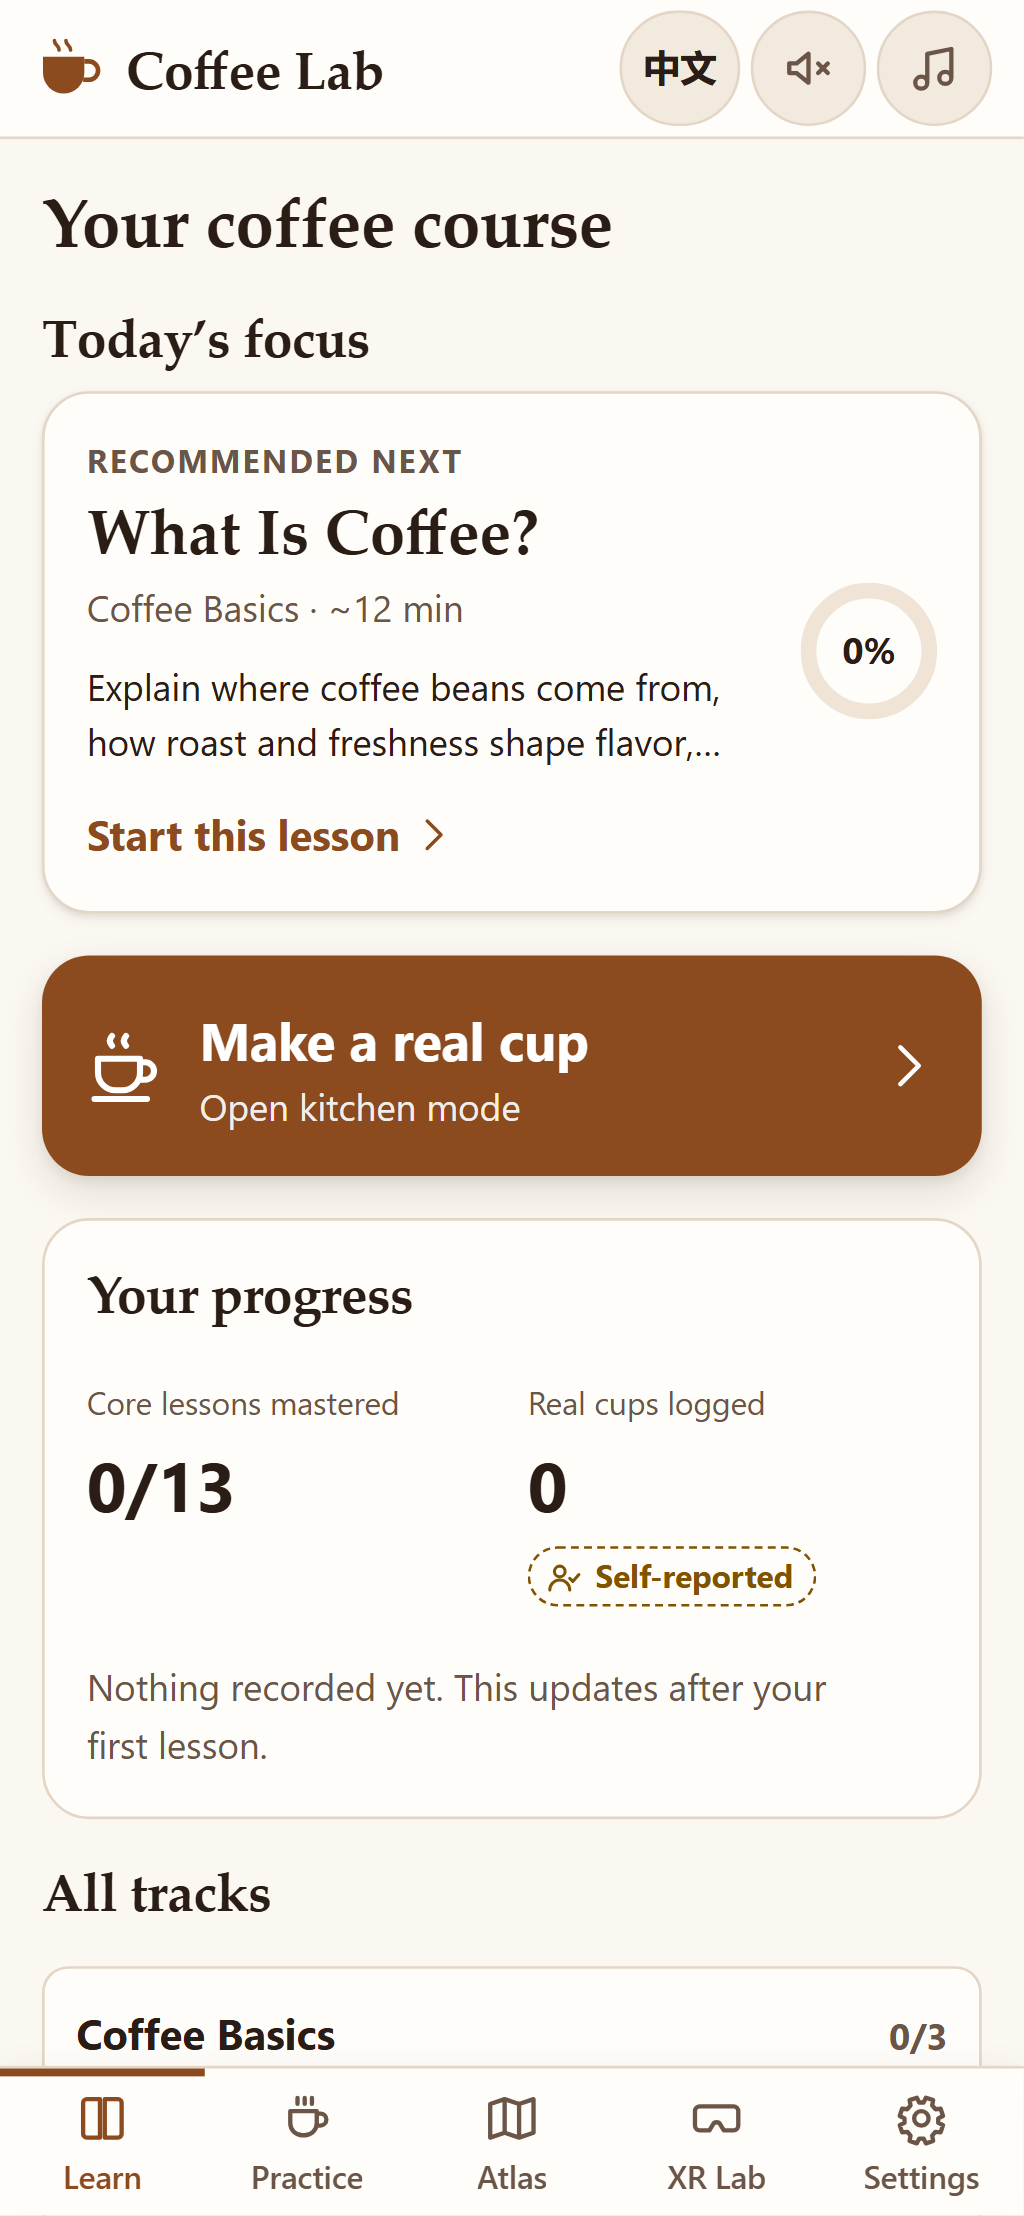
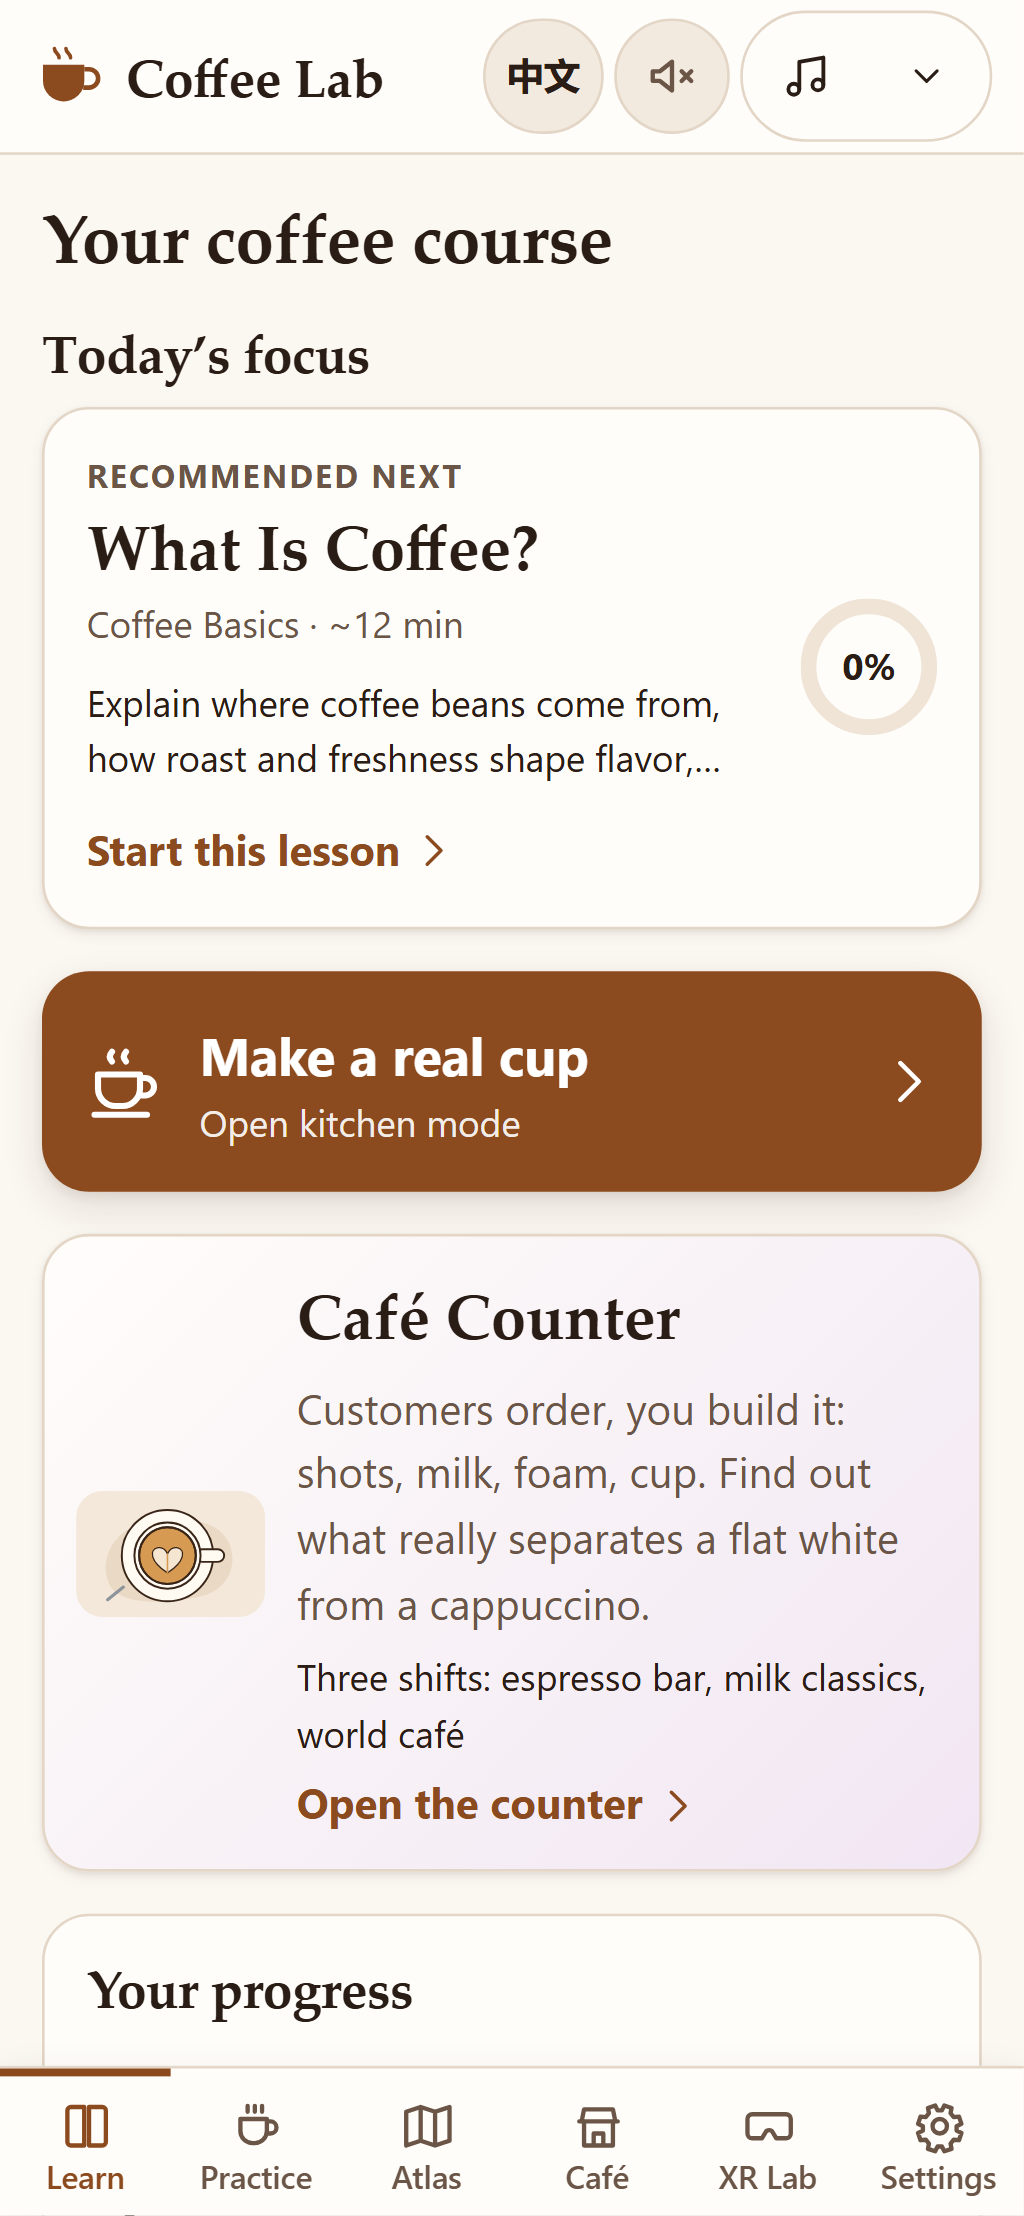
docs: final delivery report, execution state, backlog and QA log at session end
Claude-Session: https://claude.ai/code/session_013xbibxe9bcCacVxcdiFdAn

diff --git a/reports/DELIVERY.md b/reports/DELIVERY.md
@@ -1,6 +1,6 @@
 # Delivery Report — Coffee Lab · 咖啡实验室
 
-**Status:** working product, P0 scope met in browser (see evidence); XR **hardware-unverified**. This report is updated at each milestone — *last full verification: see "Tests" below.*
+**Status (final, 2026-11-08):** working product on `main` @ `773a388`; P0 scope met in browser with automated evidence; XR **hardware-unverified**. Unfinished work is preserved on branch `wip/phase5-unfinished` (not merged, not verified).
 **Canonical brief:** `COFFEE_LAB_HANDOFF.md` · decisions: `docs/DECISIONS.md` · state: `docs/EXECUTION_STATE.md` · QA: `reports/QA_LOG.md`.
 
 ## What a new user can do
@@ -10,10 +10,12 @@
 4. **Log real cups:** dose / yield / time / grind / taste tags / own rating → correct ratio, a modest one-change suggestion with a caveat, "log another attempt", side-by-side attempt comparison in the **journal**.
 5. **Explore all coffee types:** **Drink Atlas** of 29 drinks (espresso, milk drinks, pour-over, immersion, moka, cold, regional: Turkish, Vietnamese phin, yuenyeung, café de olla, qahwa, …) with origin/culture notes (legends flagged as legends), illustrative recipes, gear you own vs. need, related lessons, and "Make it now" in kitchen mode.
 6. **Play Café Counter:** customers order; build 19 drinks from 7 stations; feedback explains *what differs and why* (and spots when you built a different textbook drink); 3 levels (espresso bar, milk classics, world café); tiers; drinks-mastered collection.
-7. **XR Lab (optional):** the *espresso-first-shot* mission (13 steps: grab portafilter, dose, tamp, lock in, cup, tare, brew, stop near target yield, serve, knock out, flush) playable in **WebXR** where supported, as a **3D scene with mouse/touch**, or via a **keyboard/screen-reader action list**. Records evidence `simulated` and states what it does not train (grip force, haptics, heat, taste). More missions: see "Known limitations".
-8. **Sound & music:** original procedural SFX and generative café music (off by default; mood + volume in Settings).
-9. **Offline / install:** production build is a PWA; after the first load lessons, kitchen mode, journal, atlas and settings work offline.
-10. **Your data stays on the device:** export / import / reset in Settings; no account, no network calls at runtime.
+7. **Brew companions (phone, real gear):** espresso shot stopwatch (carries the measured seconds into the log as "Timed in app" — the only app-measured value; the rest is self-reported), pour-over pour-schedule companion ("a schedule, not a measurement"), and a dial-in chart (time vs ratio, illustrative zone, table alternative) in the journal.
+8. **Coffee Culture Explorer (`/culture`):** original hand-drawn world map with 34 places (origins, producers, coffeehouse cities, drink cultures) and a 37-event history timeline; legends and disputed dates badged; colonial/enslaved-labour history stated factually; optional matching music mood.
+9. **XR Lab (optional):** the *espresso-first-shot* mission (13 steps: grab portafilter, dose, tamp, lock in, cup, tare, brew, stop near target yield, serve, knock out, flush) playable in **WebXR** where supported, as a **3D scene with mouse/touch**, or via a **keyboard/screen-reader action list**. Records evidence `simulated` and states what it does not train (grip force, haptics, heat, taste). More missions: see "Known limitations".
+10. **Sound & music:** original procedural SFX and a generative café-music composer (off by default) with 6 moods incl. culture-inspired bossa / kissa / espresso-bar; header music control; WAV previews in `reports/audio/` (`reports/AUDIO_QA.md`).
+11. **Offline / install:** production build is a PWA; after the first load lessons, kitchen mode, journal, atlas and settings work offline.
+12. **Your data stays on the device:** export / import / reset in Settings; no account, no network calls at runtime.
 
 ## How to launch
 ```sh
@@ -30,11 +32,11 @@ Requires Node ≥ 22.22 (built on Node 24.19 / npm 11.17 / Windows 11).
 ## Tests and supported devices
 | Kind | Result | Notes |
 |---|---|---|
-| Typecheck (`npm run typecheck`) | PASS | app + configs + e2e |
-| Unit (`npm test`) | PASS — see EXECUTION_STATE for latest count | domain math, migration/corruption, selectors, activities, practice, journal advice, café specs, XR state machine (incl. 200-seed fuzz), audio no-throw, UI a11y behaviors, content integrity |
+| Typecheck (`npm run typecheck`) | PASS @ 773a388 | app + configs + e2e |
+| Unit (`npm test`) | PASS 480/480 (50 files) @ 773a388 | domain math, migration/corruption, selectors, activities, practice, journal advice, café specs, XR state machine (incl. 200-seed fuzz), audio no-throw, UI a11y behaviors, content integrity |
 | Production build | PASS | Babylon only in lazy `/xr` chunks (e2e-asserted) |
-| E2E product suites | PASS on desktop + mobile Chromium | smoke, learn, practice, cafe, offline (PWA) |
-| Independent QA gate #1 (`tests/e2e/qa-*`) | 178 pass / 12 skip (2 identical runs) | phone-only + desktop-only scenarios, XR fallback, failure handling, axe WCAG A/AA on 17 screens × themes × viewports, zh pass, content honesty |
+| E2E — all suites (`npx playwright test`) | **246 passed / 14 skipped / 0 failed** @ 773a388 (desktop 1280×800 + Pixel 7; skips are viewport-scoped tests) | smoke, shell, learn, practice, brew, cafe, culture, offline (PWA) + independent QA suites |
+| Independent QA gate #1 (`tests/e2e/qa-*`) | 178 pass / 12 skip (2 identical runs); bugs QA-01…09 fixed except QA-05 | | phone-only + desktop-only scenarios, XR fallback, failure handling, axe WCAG A/AA on 17 screens × themes × viewports, zh pass, content honesty |
 | **Real phone** | **NOT TESTED by agents** | user can test via `npm run dev:lan` |
 | **XR headset** | **NOT TESTED — no headset available** | WebXR controller code, comfort, frame rate are hardware-unverified; 3D fallback verified in headless Chromium (software WebGL) |
 | **Audio by ear** | **NOT HEARD by a human** | only no-throw/scheduling tests and (if present) `reports/AUDIO_QA.md` render metrics |
@@ -45,7 +47,11 @@ Requires Node ≥ 22.22 (built on Node 24.19 / npm 11.17 / Windows 11).
 - No human coffee-expert or native-speaker review of zh/en content; some figures are rules of thumb (labeled) and some history is disputed/legendary (labeled) — see `docs/CONTENT_SOURCES*.md`.
 - Taste, extraction and pour models are **illustrative**, never predictions; real-world steps are self-reported, never sensed.
 - Secure-context features (PWA, wake lock, WebXR) don't work over plain-HTTP LAN; see README for options (none set up).
-- Open QA items: see `reports/QA_LOG.md` (P2s being fixed at time of writing).
+- **Open QA item:** QA-05 (P2) — some XR intro links are ~25 px tall on phones (fix was in the unfinished XR branch).
+- **Unfinished, on branch `wip/phase5-unfinished` (NOT merged, NOT verified):** XR mission picker + *station-tour* + *pourover-bloom* missions (mid-refactor of the XR scene), glossary page + inline term help (UI started; glossary data file not written), `docs/CONTENT_CONSISTENCY.md` report. The consistency *fixes* themselves were verified and merged (`773a388`).
+- Independent QA gate #2 on the final build was not run; the lead's final full e2e run is the last evidence.
+- Music loudness: focus/lab/kissa moods are 2–4 LU quieter than others; mixes may sound dull on phone speakers (needs a human listen).
+- A real phone, Safari/Firefox, and screen readers (NVDA/VoiceOver) were not tested.
 
 ## Assets, licensing, content sources
 - All illustrations, icons, app icons, 3D props and audio are **original** (hand-written SVG / procedural Babylon meshes / Web Audio synthesis). No third-party images, models, fonts or audio files.
@@ -59,9 +65,10 @@ Requires Node ≥ 22.22 (built on Node 24.19 / npm 11.17 / Windows 11).
 
 ## Run limits / interruptions / time worked
 - Single session started 2026-11-07 ~23:25 local, orchestrated by a lead planner with specialist subagents (architect, 2 curriculum, designer, XR, 3 web engineers, QA). No deploys, pushes, purchases or paid APIs.
-- Interruptions: none blocking so far. Concurrent-agent Playwright runs collided on a shared port early on → fixed with `E2E_PORT/E2E_DIST/E2E_OUT` isolation.
+- Ended 2026-11-08 ~04:00 local when the account's **5-hour usage limit** was hit (HTTP 429 on two running workers) and the user asked to conclude. Roughly 4.5 h of active work; not a continuous 8 h.
+- Concurrent-agent Playwright runs collided on a shared port early on → fixed with `E2E_PORT/E2E_DIST/E2E_OUT` isolation.
 
 ## Next three improvements
-1. Test on the user's real phone (kitchen mode with their espresso machine / pour-over kit) and fix what the real kitchen reveals.
-2. Headset verification of the XR controller interactions, comfort and frame rate.
-3. Expert + native-speaker review of the zh/en curriculum; then expand dial-in and milk-texture practice.
+1. Finish and verify `wip/phase5-unfinished`: XR mission picker + station-tour + pourover-bloom (and QA-05), glossary data + inline term help; then run an independent QA gate #2.
+2. Real-world check on the user's phone with their espresso machine / pour-over kit (`npm run preview:lan`, or `adb reverse` for secure-context features) and a headset test of the XR controller code.
+3. Human review: listen to `reports/audio/` WAVs and even out mood loudness; expert + native-speaker review of the zh/en curriculum and culture claims.

diff --git a/docs/EXECUTION_STATE.md b/docs/EXECUTION_STATE.md
@@ -5,8 +5,9 @@
 **User answers (2026-11-07):** bilingual zh/en toggle · desktop + phone available, **no headset** · owns espresso machine+grinder & pour-over kit, wants to learn *all* drink types · **music, SFX, coffee culture important** · deps + local commits approved. See `docs/DECISIONS.md`.
 
 ## Current phase
-**Phase 5 — learning quality (2026-11-08 ~03:10, ~3.75h into window).** New since phase 4: culture map/timeline data `84f1b10`, Culture Explorer `/culture` `b6dafce`, `BrewLogEntry.timeSource` contract, brew companions (shot timer, pour schedule, dial-in chart) `40db012`, GlossaryTerm contract.
-Running: xr-engineer (mission picker + station-tour + pourover-bloom + QA-05 — long-running), curriculum (cross-module consistency audit + glossary data), web engineer F (glossary page + inline term help).
+**SESSION ENDED (2026-11-08 ~04:00)** — account 5-hour usage limit hit (HTTP 429 on workers) and user asked to conclude. `main` @ `773a388` is green and runnable.
+Final lead verification @ 773a388: typecheck ✓ · unit 480/480 ✓ · build ✓ · **e2e 246 passed / 14 viewport-scoped skips / 0 failed** (desktop 1280×800 + Pixel 7).
+**Unfinished work saved on branch `wip/phase5-unfinished` (`856aa98`, NOT verified, NOT merged):** XR mission picker + station-tour + pourover-bloom (XR scene refactor in progress; includes QA-05 fix attempt and edits to offline/qa-scenarios specs), glossary UI (`src/features/glossary`, route + ExplainView/LessonIntro wiring) — glossary DATA (`src/content/glossary.ts`) never written. Content-consistency fixes from that branch were verified and merged to main (`773a388`).
 
 ## Working user-visible flows (evidence = lead re-run at af54ea0)
 - [x] Onboarding (skip/edit) and course navigation; desktop course map vs phone "today" home — e2e learn.spec (desktop+mobile)
@@ -21,10 +22,10 @@ Running: xr-engineer (mission picker + station-tour + pourover-bloom + QA-05 —
 - Typecheck: PASS · Unit: PASS 309/309 (31 files) · Build: PASS · E2E: 30 PASS / 2 intentional skips (desktop 1280×800 + Pixel 7, isolated port 4180)
 - Actual headset: **NOT TESTED — no headset available (U2)** · Real phone: NOT TESTED by agents (user can via `npm run dev:lan`)
 
-## Next 3 tasks
-1. Integrate XR phase 3 (+ add spatial-practice activities `esp-meet-the-machine-xr`, `po-ratio-bloom-xr` to content) and wave 4 (culture explorer, brew companions) → full suite → commit.
-2. QA gate #2 (quality-guardian) on the integrated build incl. new routes /cafe, /culture, XR picker; commit refreshed screenshots.
-3. Finalize README layout section + DELIVERY.md numbers; anti-drift audit.
+## Next 3 tasks (on resume)
+1. `git checkout wip/phase5-unfinished`; resume/finish XR phase 3 (picker + 2 missions + QA-05) and make full suite green; write `src/content/glossary.ts`, finish glossary UI; merge to main only after typecheck/unit/build/full e2e pass.
+2. Independent QA gate #2 (quality-guardian) on the merged build; refresh `reports/screenshots/`.
+3. Human-in-the-loop items: real phone kitchen test, headset test, listen to `reports/audio/`, expert/native review.
 
 ## Blockers / unverified assumptions
 - No headset → XR hardware-unverified by design.

diff --git a/docs/BACKLOG.md b/docs/BACKLOG.md
@@ -13,21 +13,27 @@ Status: DONE / PARTIAL / TODO / BLOCKED.
 - [x] DONE (hardware-unverified) — XR espresso mission 13 steps, fallback 3D + action list `3952165` (46 tests)
 - [x] DONE (pending QA) — Guidance tiers: sequence/quiz/identify/ratio lab, kitchen mode, XR
 - [x] DONE (pending QA) — Shared local persistence, provenance (CONTRACTS §9), recovery, export/import/reset `af54ea0`
-- [ ] PARTIAL — Unit 309 ✓, e2e 30 ✓, build ✓ — independent QA gate running
-- [ ] PARTIAL — Sources/safety, README, honest delivery report — CONTENT_SOURCES(+_ATLAS).md done; README initial; DELIVERY TODO
+- [x] DONE — Unit 480 ✓, e2e 246 pass/0 fail (incl. independent QA suites), build ✓ @ `773a388`
+- [x] DONE — Sources/safety docs, README, final `reports/DELIVERY.md`
 
 ## P1 — after P0 stable
 - [x] DONE (pending QA) — Complete pour-over path — 4 lessons playable + kitchen guide `af54ea0`
 - [x] DONE (pending QA) — Espresso fault diagnosis — 7 scenarios with best/reasonable/unhelpful feedback + caveats `af54ea0`
 - [x] DONE — Tasting tags + attempts compare in journal `af54ea0`; sensory side-by-side guide in explore track
 - [ ] PARTIAL — Animations/audio/comfort — SFX + music wired to prefs incl. mood `af54ea0` (unheard by a human)
-- [ ] TODO — Cross-mode recommendations based on user capability
-- [ ] PARTIAL — Localization (zh/en done in content + shell), offline/PWA TODO, extended accessibility audit TODO
+- [ ] PARTIAL — Cross-mode recommendations: home is mode-conditioned (desktop map vs phone 'today', XR support shown honestly); no explicit cross-device suggestion engine
+- [x] DONE — zh/en everywhere; offline PWA `411315b`; axe WCAG A/AA on 17+ screens (screen readers not tested by a human)
 - [x] DONE (pending QA) — **User-requested breadth (U3):** Drink Atlas UI (29 drinks, culture notes, gear owned/missing, make-it) + culture/explore tracks `af54ea0`
 - [x] DONE — Café Counter: 19 drinks, 3 levels, tiers, explanatory feedback `ec1dcad`
 - [x] DONE — Offline/PWA (hand-written SW, offline e2e) `411315b`
 - [x] DONE (unheard by a human) — Culture-inspired music moods bossa/kissa/bar + generative composer + render QA `81fe1d3` (`reports/AUDIO_QA.md`)
 - [ ] TODO (P2) — Even out quieter moods (focus/lab/kissa are 2–4 LU below others); human listening pass on phone speakers
+
+## Unfinished (branch `wip/phase5-unfinished`, not verified)
+- [ ] PARTIAL — XR mission picker + station-tour + pourover-bloom missions; QA-05 XR phone link size
+- [ ] PARTIAL — Glossary page + inline term help (UI started; data file missing)
+- [ ] PARTIAL — Content consistency report `docs/CONTENT_CONSISTENCY.md` (fixes merged `773a388`; report not written)
+- [ ] TODO — Independent QA gate #2
 
 ## P2 — optional if time
 - [ ] TODO — Data-only future skill schema validation and example generator prompt

diff --git a/reports/QA_LOG.md b/reports/QA_LOG.md
@@ -107,3 +107,16 @@ Not bugs (checked): kitchen-mode stopwatch under the sticky action bar is reacha
 | QA-08 "mastered" overstated | P2 | `b5547ae` (mastered = independent-tier checks only) | home/lesson tests |
 
 Lead verification at `b5547ae`: typecheck ✓, unit 414/414 ✓, shell + smoke e2e 24 pass / 2 viewport skips ✓. Fixer reported full e2e 230 pass / 14 skip / 0 fail (desktop + mobile) on the integrated tree.
+
+## Final lead verification (2026-11-08 ~04:00) — `main` @ `773a388`
+
+| Check | Result |
+|---|---|
+| `npm run typecheck` | PASS |
+| `npx vitest run` | PASS 480/480 (50 files) |
+| `npm run build` | PASS |
+| `npx playwright test` (all suites, isolated `E2E_PORT=4199`) | **246 passed, 14 skipped (viewport-scoped), 0 failed** — desktop 1280×800 + Pixel 7 Chromium |
+| XR on headset | **NOT TESTED — no headset** |
+| Real phone | NOT TESTED by agents |
+
+Open: QA-05 (P2, XR intro links ~25 px on phone) — fix only exists on unverified branch `wip/phase5-unfinished`. QA gate #2 not run (session ended at usage limit).
